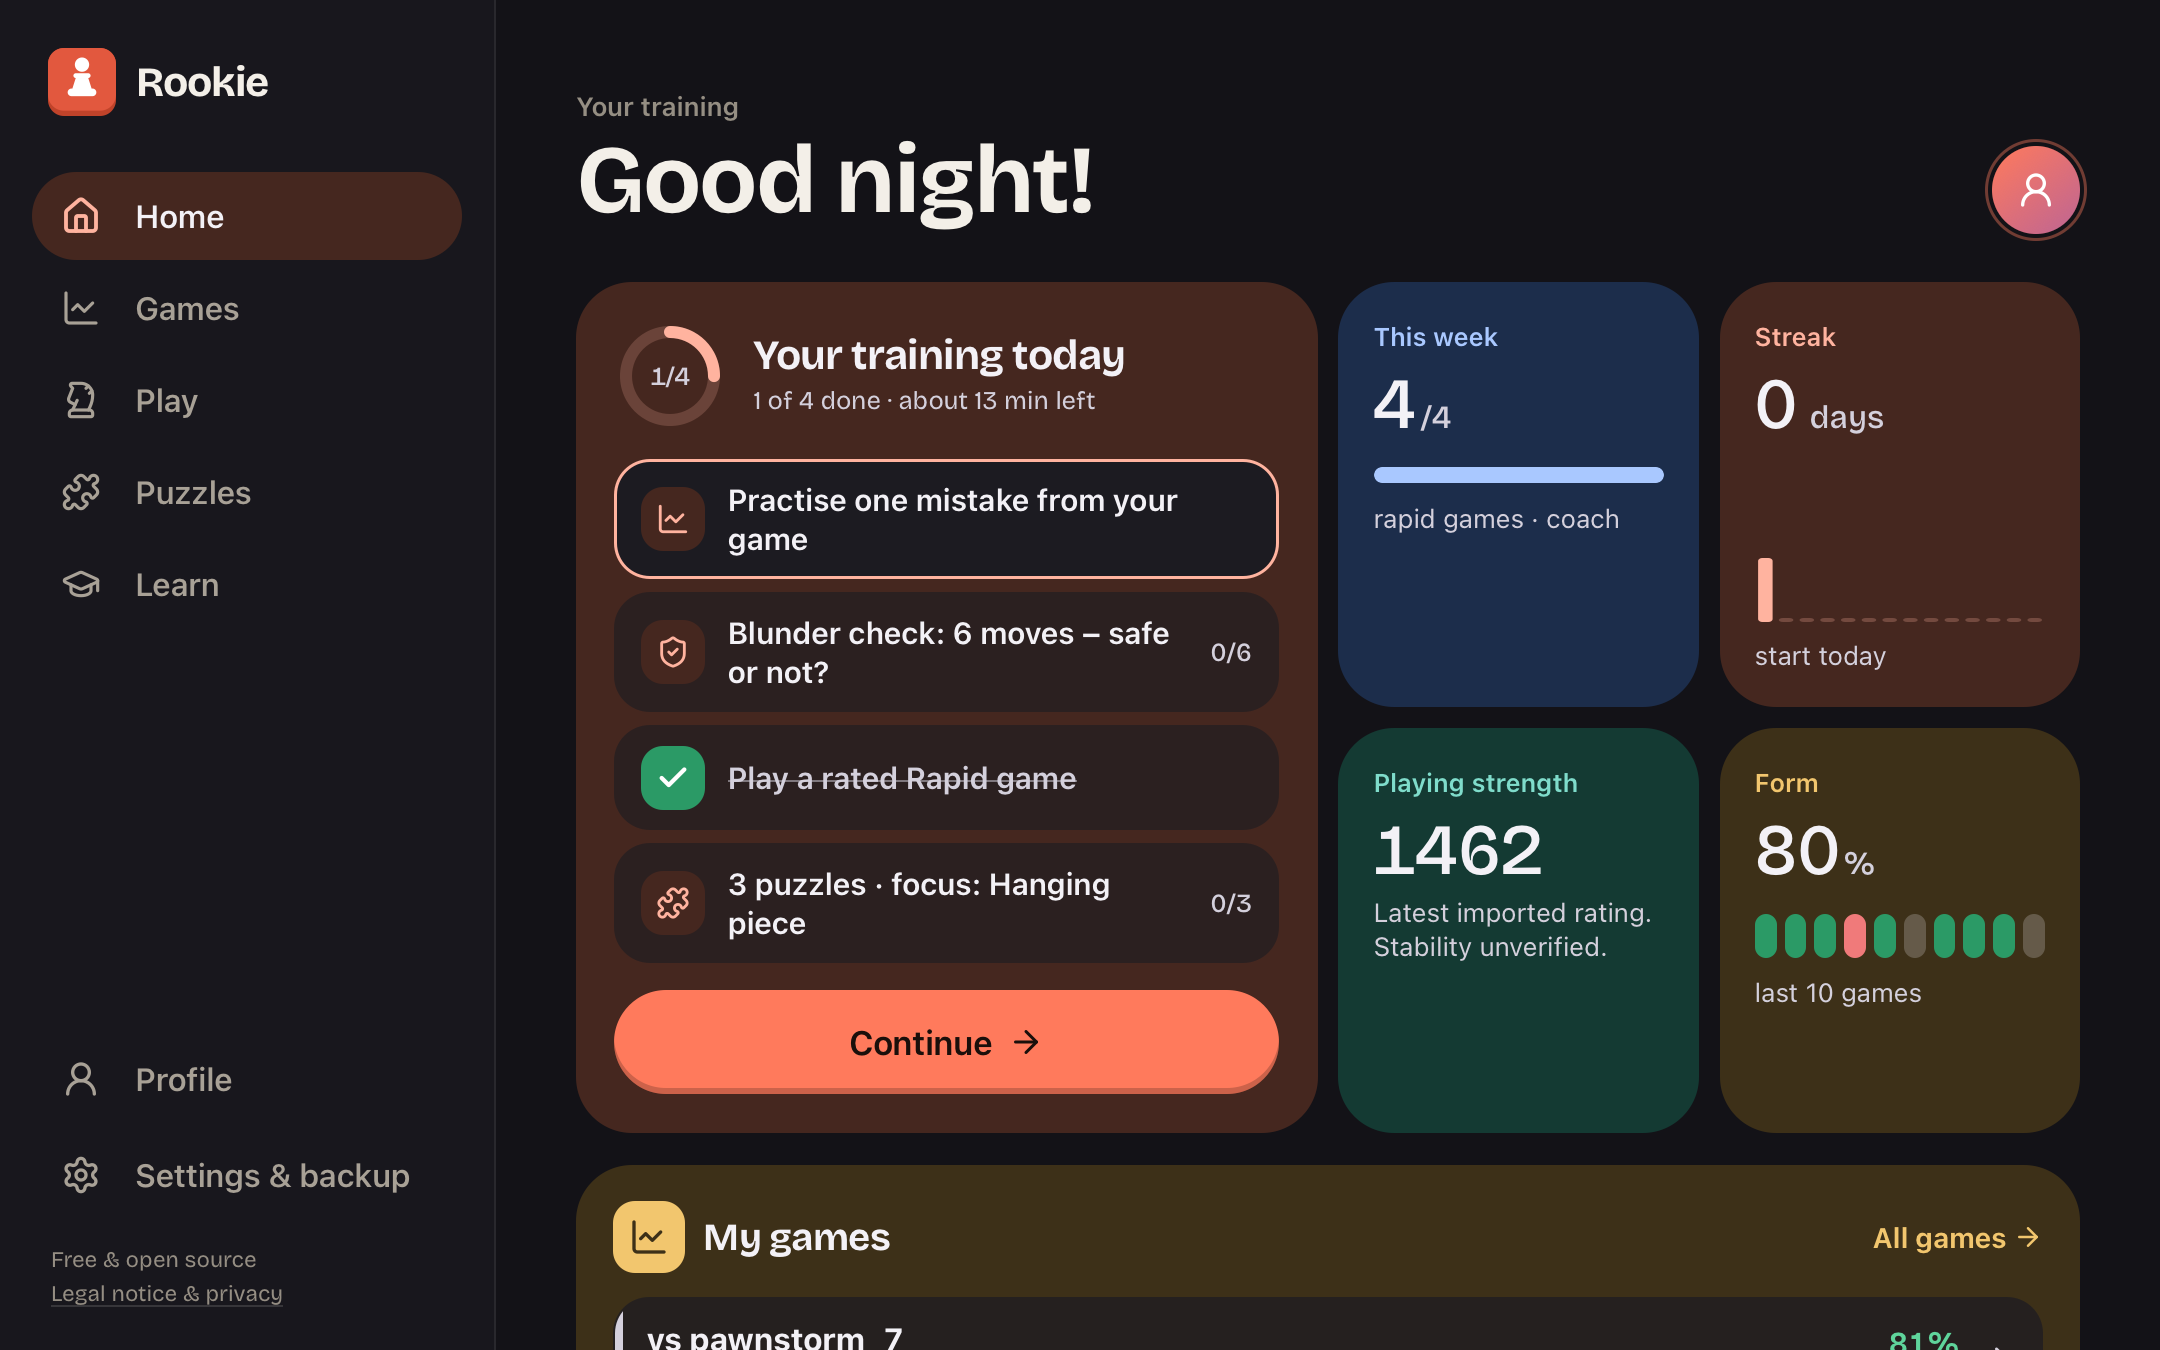
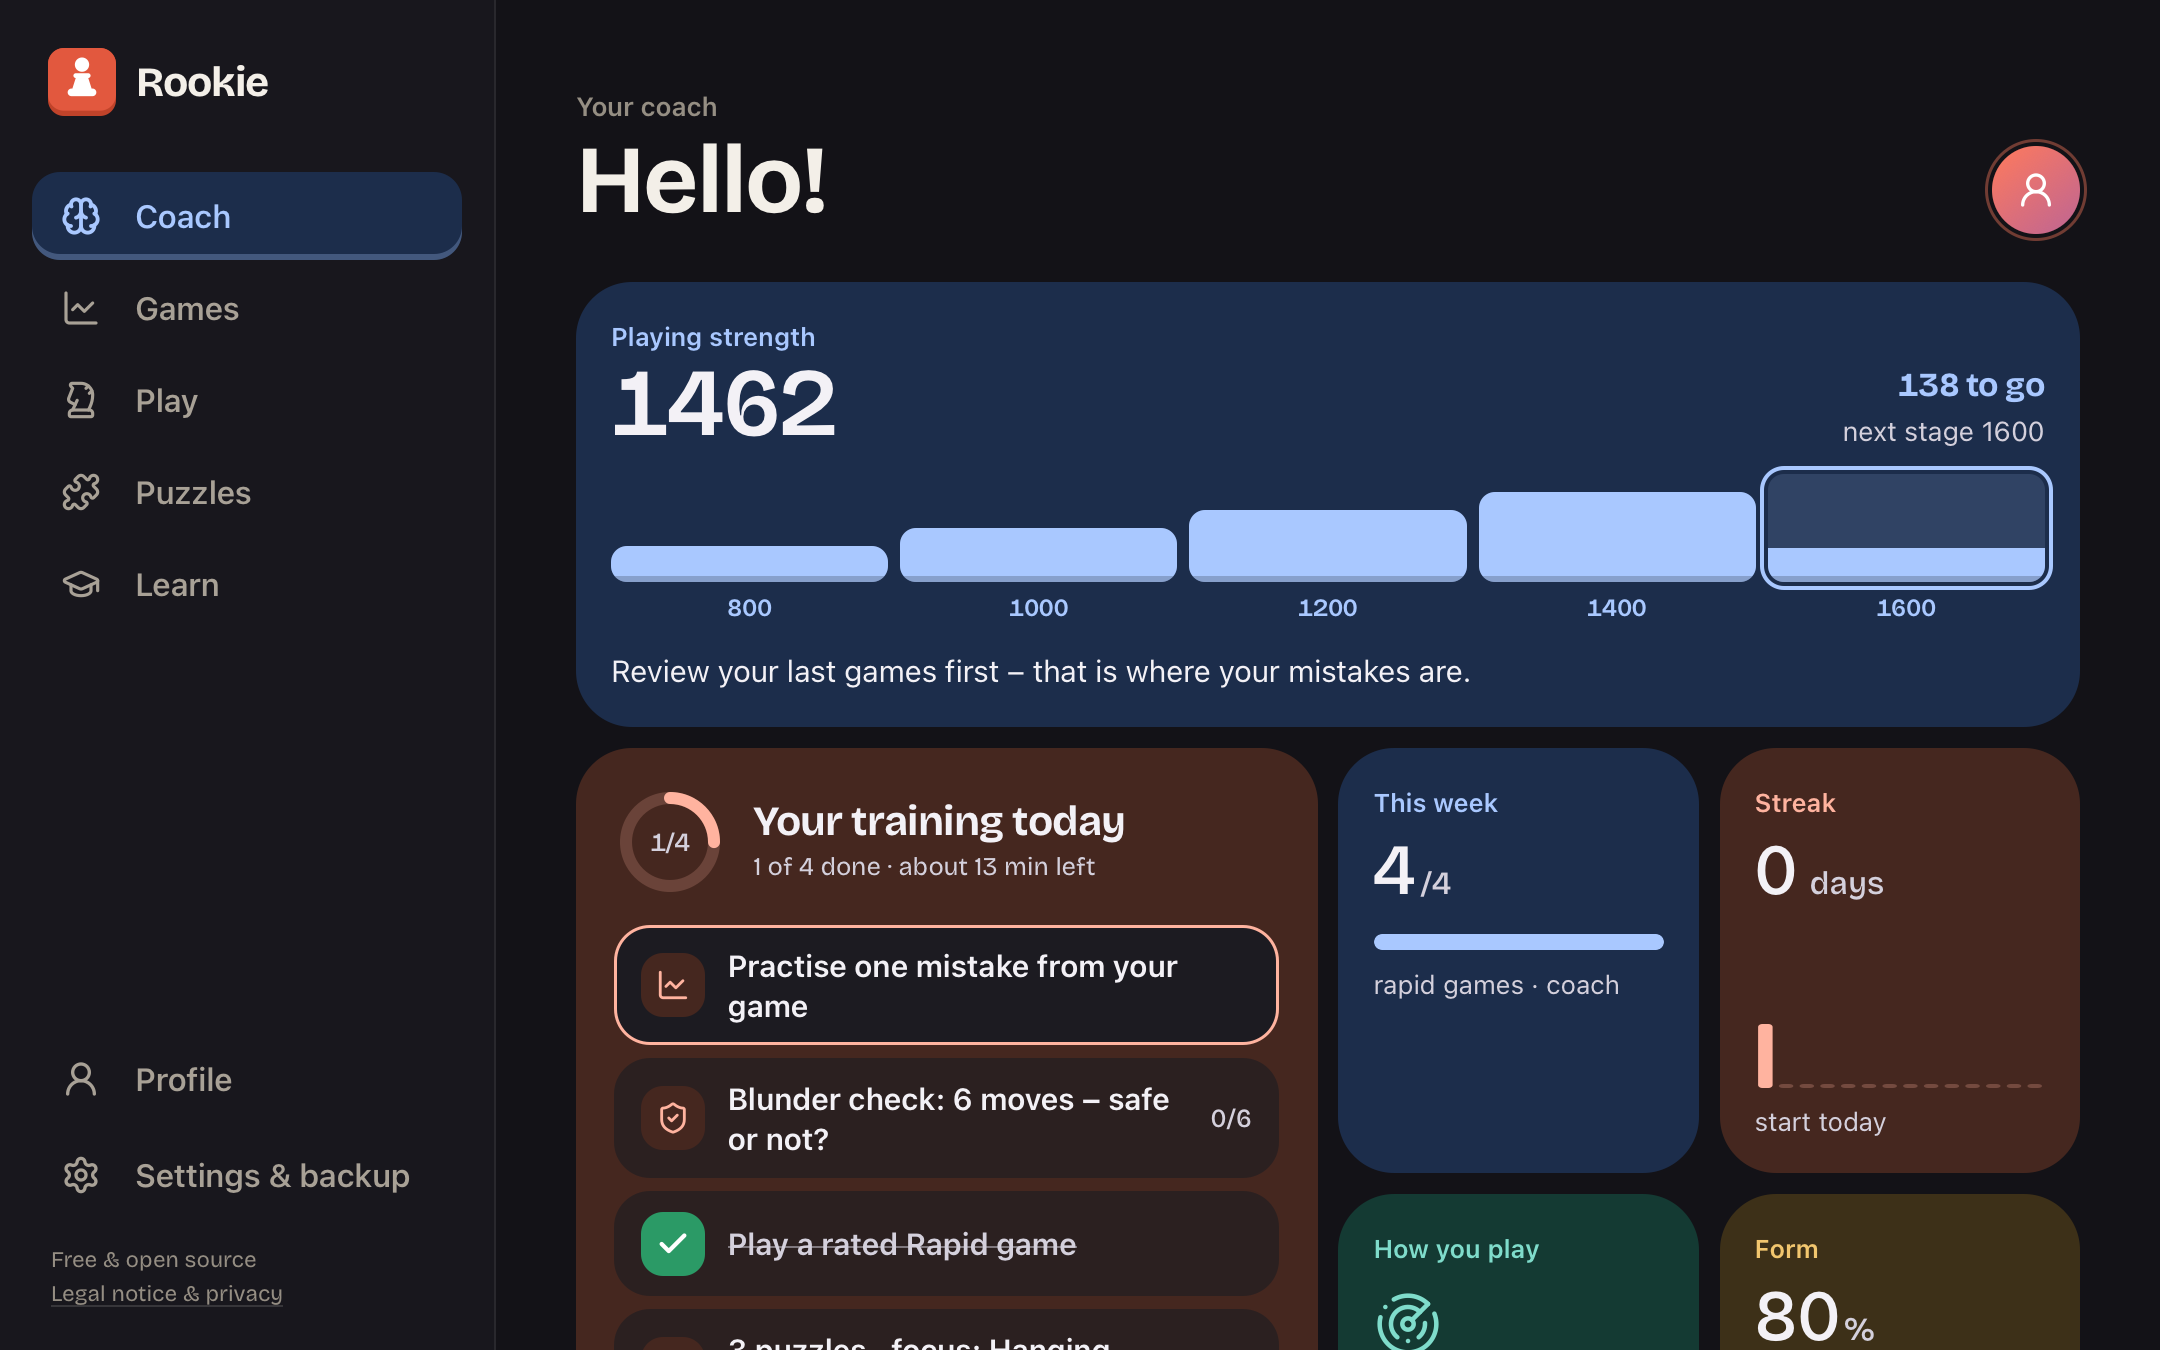
Rookie 0.13.0: Coach ist die Startseite, Weg zu 1600, ruhigeres Menü; README-Bilder neu

diff --git a/README.md b/README.md
@@ -2,21 +2,27 @@
 
 A chess trainer for beginners as a Progressive Web App for iPhone, iPad and Mac – completely free, offline-capable, no App Store, no account, no tracking. English and German.
 
-**Live:** https://rookie.maximilianauer.at · **Version:** 0.12.0
+**Live:** https://rookie.maximilianauer.at · **Version:** 0.13.0
 
-| Home                                                                                                                           | Coach                                                                                                                                                                                 | Play                                                                                                   | Game review                                                                                                                                   | Blunder check                                                                                            |
-| ------------------------------------------------------------------------------------------------------------------------------ | ------------------------------------------------------------------------------------------------------------------------------------------------------------------------------------- | ------------------------------------------------------------------------------------------------------ | --------------------------------------------------------------------------------------------------------------------------------------------- | -------------------------------------------------------------------------------------------------------- |
-| <img src="docs/screenshots/home-light.png" width="200" alt="Home: daily plan with blunder check, focus puzzles and time left"> | <img src="docs/screenshots/coach-light.png" width="200" alt="Coach: your week – games, reviews, puzzles, blunder checks and lessons against the coach's dose, with the road to 1600"> | <img src="docs/screenshots/play-light.png" width="200" alt="Playing a bot with the coach switched on"> | <img src="docs/screenshots/analysis-light.png" width="200" alt="Game review: the best move marked on the board, with the engine's top moves"> | <img src="docs/screenshots/safety-light.png" width="200" alt="Blunder check: is the planned move safe?"> |
-| <img src="docs/screenshots/home-dark.png" width="200" alt="Home in dark mode">                                                 | <img src="docs/screenshots/coach-dark.png" width="200" alt="Coach in dark mode">                                                                                                      | <img src="docs/screenshots/play-dark.png" width="200" alt="Play in dark mode">                         | <img src="docs/screenshots/analysis-dark.png" width="200" alt="Game review in dark mode">                                                     | <img src="docs/screenshots/safety-dark.png" width="200" alt="Blunder check in dark mode">                |
+| Home                                                                                                                                                        | Coach                                                                                                                                                                                        | Play                                                                                                   | Game review                                                                                                                                   | Blunder check                                                                                            |
+| ----------------------------------------------------------------------------------------------------------------------------------------------------------- | -------------------------------------------------------------------------------------------------------------------------------------------------------------------------------------------- | ------------------------------------------------------------------------------------------------------ | --------------------------------------------------------------------------------------------------------------------------------------------- | -------------------------------------------------------------------------------------------------------- |
+| <img src="docs/screenshots/home-light.png" width="200" alt="Coach: your road to 1600 as a staircase of stages, a sentence from the coach and today’s plan"> | <img src="docs/screenshots/coach-light.png" width="200" alt="How you play: your week – games, reviews, puzzles, blunder checks and lessons against the coach's dose, with the road to 1600"> | <img src="docs/screenshots/play-light.png" width="200" alt="Playing a bot with the coach switched on"> | <img src="docs/screenshots/analysis-light.png" width="200" alt="Game review: the best move marked on the board, with the engine's top moves"> | <img src="docs/screenshots/safety-light.png" width="200" alt="Blunder check: is the planned move safe?"> |
+| <img src="docs/screenshots/home-dark.png" width="200" alt="Coach in dark mode">                                                                             | <img src="docs/screenshots/coach-dark.png" width="200" alt="How you play in dark mode">                                                                                                      | <img src="docs/screenshots/play-dark.png" width="200" alt="Play in dark mode">                         | <img src="docs/screenshots/analysis-dark.png" width="200" alt="Game review in dark mode">                                                     | <img src="docs/screenshots/safety-dark.png" width="200" alt="Blunder check in dark mode">                |
 
 **Desktop** (Mac, iPad landscape)
 
 | Light                                                                                                                                                                                                          | Dark                                                                                                         |
 | -------------------------------------------------------------------------------------------------------------------------------------------------------------------------------------------------------------- | ------------------------------------------------------------------------------------------------------------ |
-| <img src="docs/screenshots/desktop-home-light.png" width="420" alt="Home on desktop in light mode: sidebar, daily plan, this week's games, streak, playing strength and form">                                 | <img src="docs/screenshots/desktop-home-dark.png" width="420" alt="Home on desktop in dark mode">            |
+| <img src="docs/screenshots/desktop-home-light.png" width="420" alt="Coach on desktop in light mode: the road to 1600 above today’s plan, this week's games, streak, how you play and form">                    | <img src="docs/screenshots/desktop-home-dark.png" width="420" alt="Coach on desktop in dark mode">           |
 | <img src="docs/screenshots/desktop-analysis-light.png" width="420" alt="Game review on desktop in light mode: the best move marked on the board, the engine's top moves and a prompt to replay your mistakes"> | <img src="docs/screenshots/desktop-analysis-dark.png" width="420" alt="Game review on desktop in dark mode"> |
 
 Screenshots use generated sample data (`scripts/screenshots/`), not real games.
+
+## What's new in 0.13.0
+
+- **The coach is home:** the first tab is the Coach again. At the top sits your road to 1600 – your playing strength, how far it is, and the stages 800 to 1600 as a staircase – with one sentence from the coach about what matters this week. Below: today’s plan.
+- **How you play:** the former coach page (your week, penta, focus, progress, statistics) is now “How you play”, one tap from home.
+- **Calmer menu:** a light paper tab bar; the active area is a pastel tile with the same pressable edge as buttons and the app icon. Five tabs fill the bar evenly.
 
 ## What's new in 0.12.0
 
